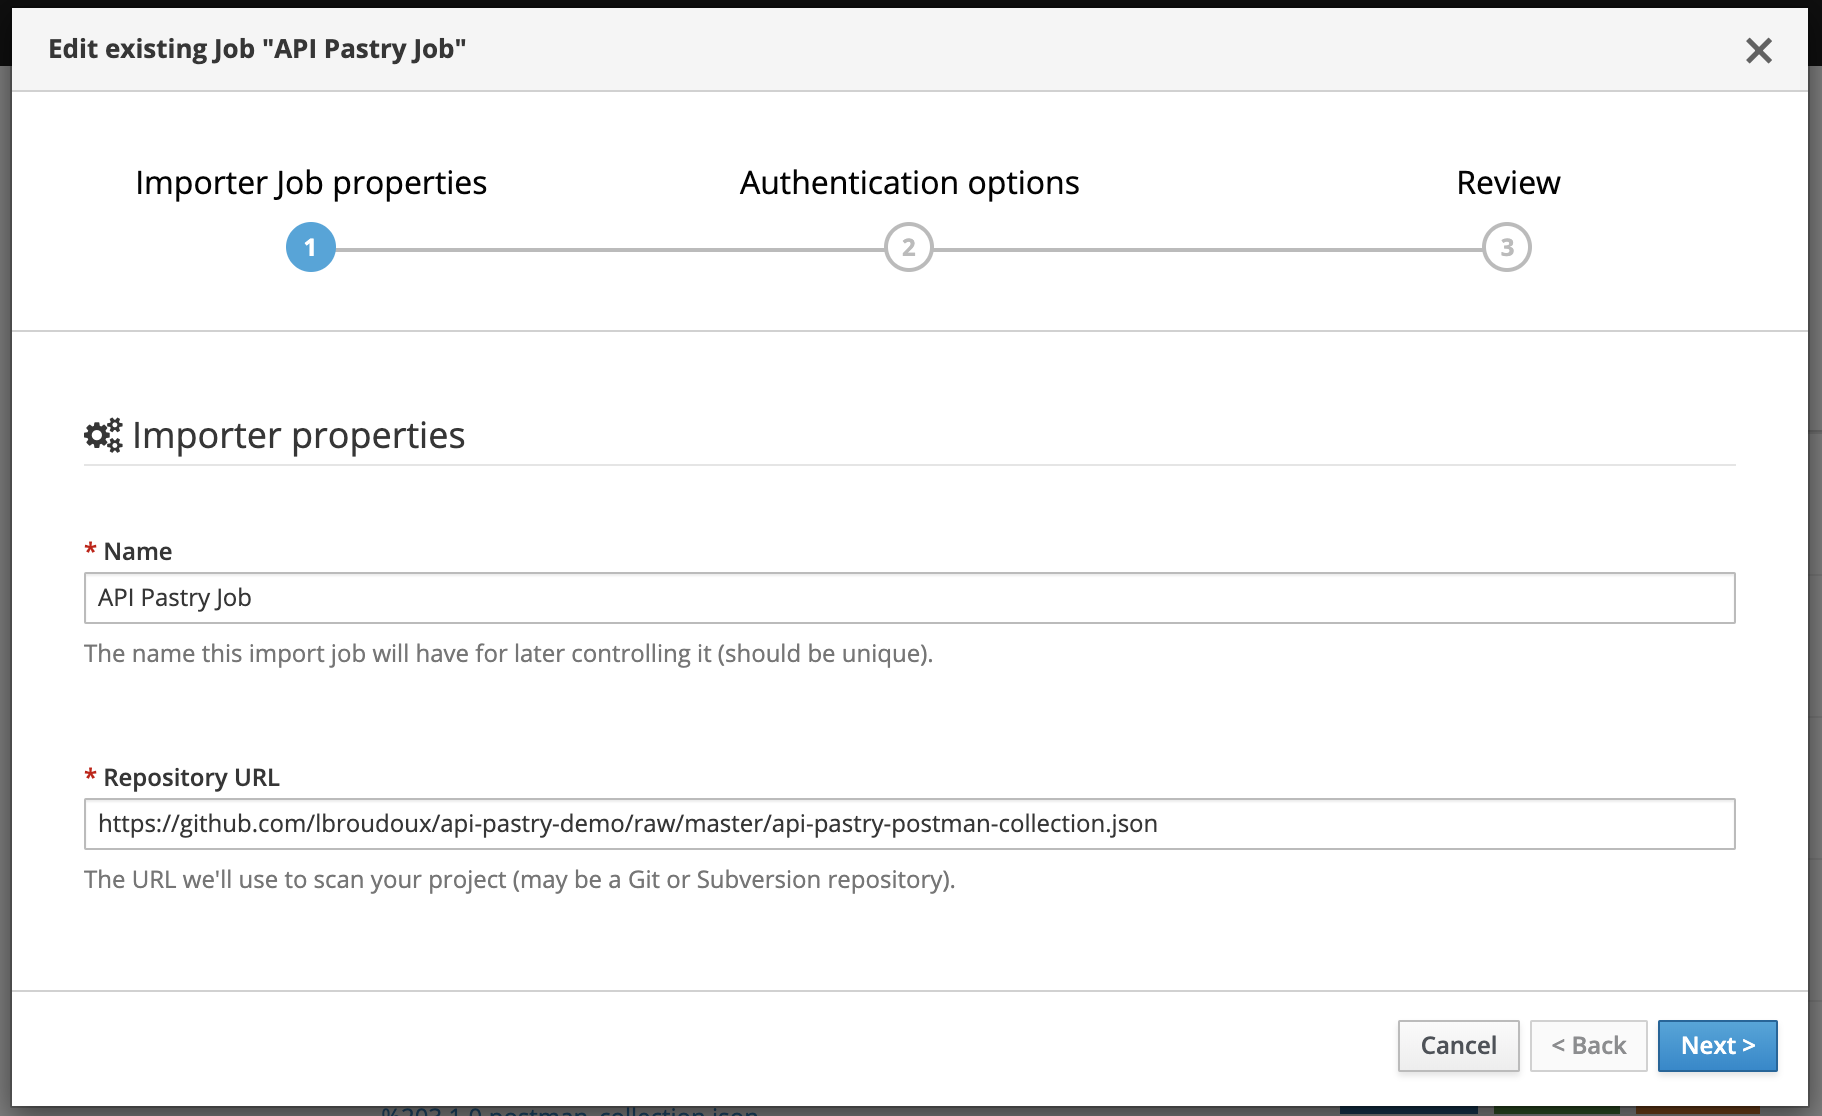
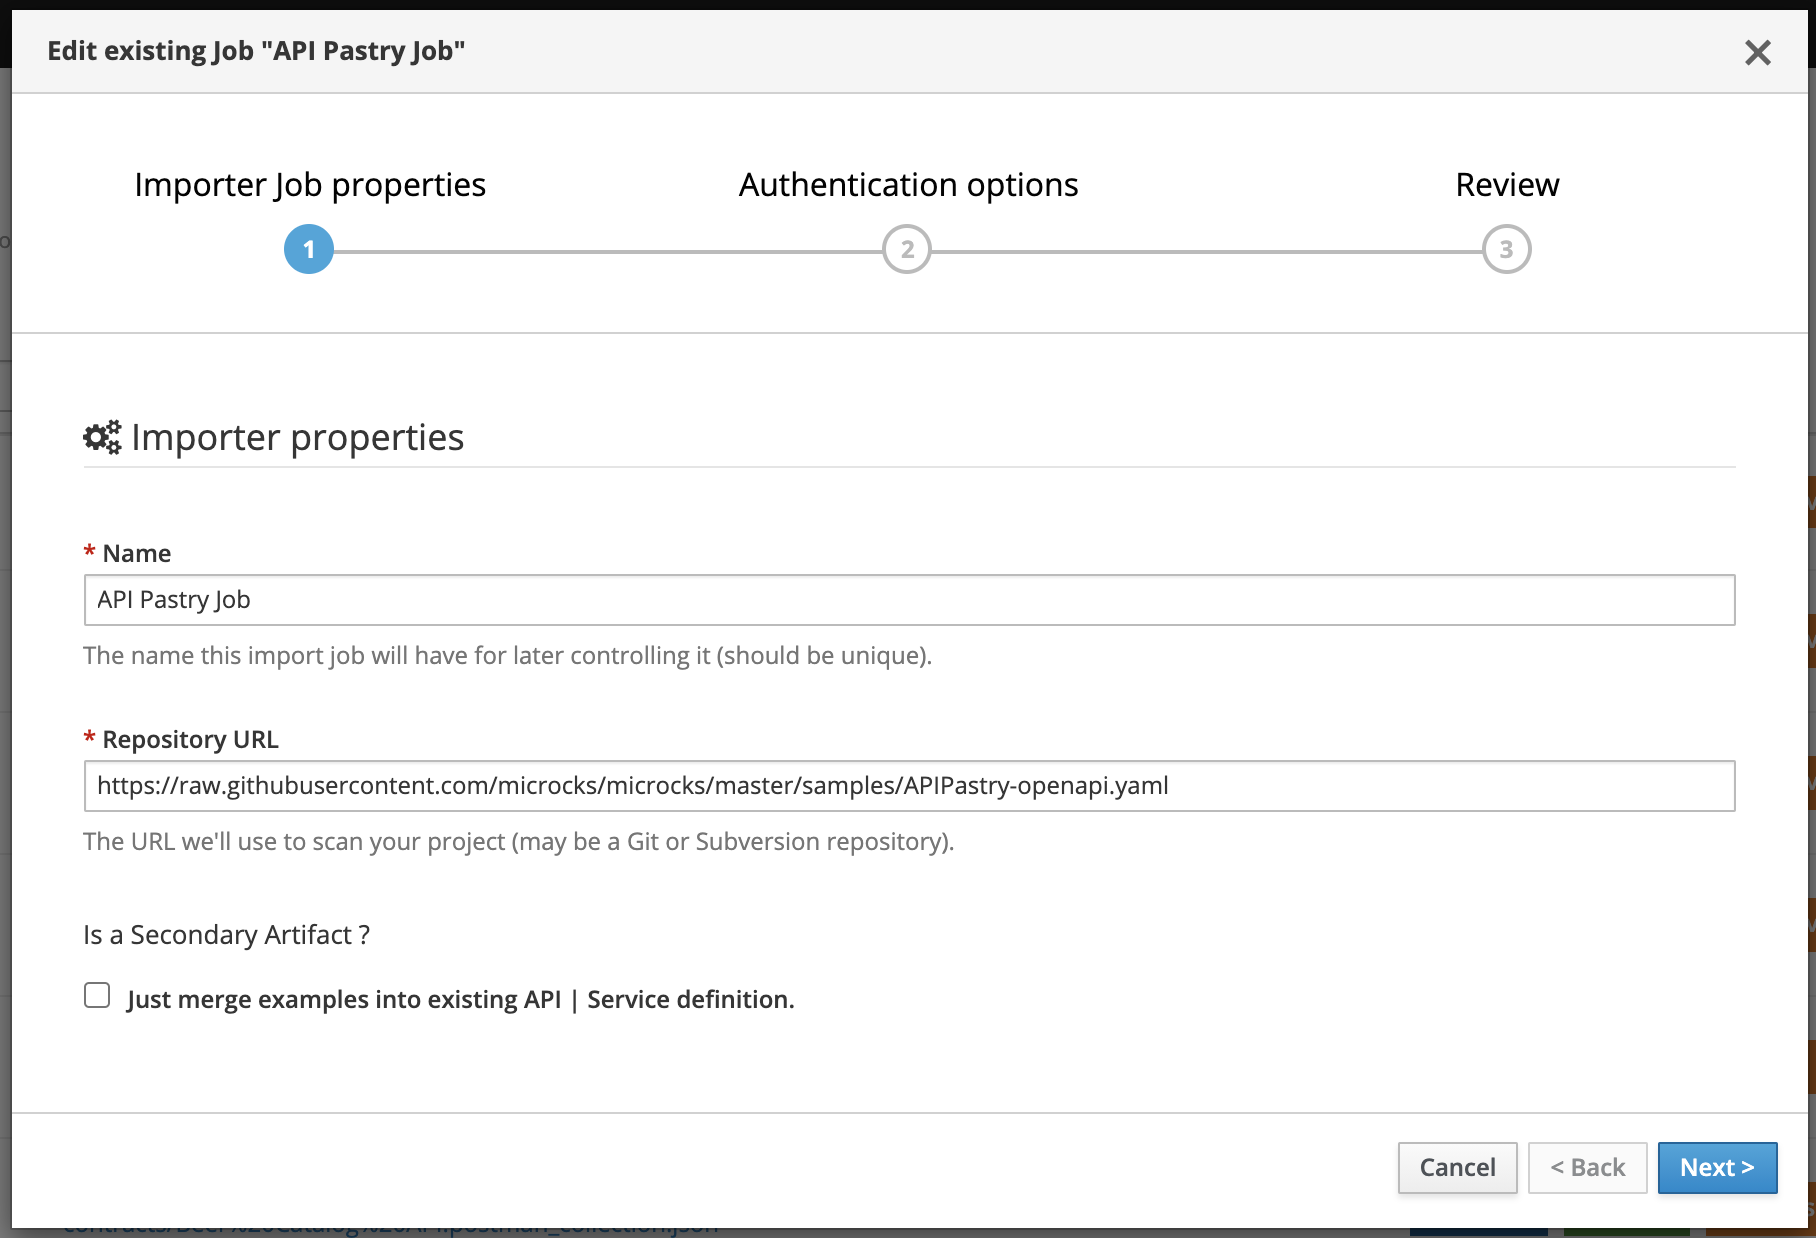
microcks/microcks#400 Documentation for multi-artifacts support

diff --git a/content/documentation/using/importers.md b/content/documentation/using/importers.md
@@ -3,7 +3,7 @@ draft: false
 title: "Importing Services & APIs"
 date: 2020-02-26
 publishdate: 2020-02-26
-lastmod: 2020-08-04
+lastmod: 2021-06-30
 menu:
   docs:
     parent: using
@@ -31,7 +31,8 @@ We provide built-in parsers and importers for the following formats:
 * [Postman collections](https://learning.postman.com/docs/postman/collections/data-formats/) files with v1.0 or v2.x file format. See our [documentation](../postman/) on some conventions you should follow for this collection structure,
 * [Apicurio Studio](https://apicurio-studio.readme.io/docs/integrate-microcks-for-mocking-your-api) direct integration when working on OpenAPI 3.x API specifications,
 * [OpenAPI v3.x](http://spec.openapis.org/oas/v3.0.3) files whether using the YAML of JSON format. See our [documentation](../openapi/) on some conventions you should follow for this specification,
-* [AsyncAPI v2.x](https://www.asyncapi.com/docs/specifications/2.0.0) files whether using the YAML or JSON format. See our [documentation](../asyncapi/) on some conventions you should follow for this specification, 
+* [AsyncAPI v2.x](https://www.asyncapi.com/docs/specifications/2.0.0) files whether using the YAML or JSON format. See our [documentation](../asyncapi/) on some conventions you should follow for this specification,
+* [gRPC / Protocol buffers v3](https://grpc.io/docs/what-is-grpc/introduction/) `.proto`files. See our [documentation](../grpc/) on some conventions you should follow for this specification,
 
 
 > People very often ask *"Why the Swagger format - aka OpenApi 2.0 - isn't supported by Microcks?"*. This is because Swagger is incomplete for specifying mocks as it does not allow full specifications of examples. Sure, the Swagger spec allows you to illustrate responses with samples but it does not allow you to do so with request or request parameters (whether in path, query or headers). And if some tools - like Swagger UI - seems to compose sample requests, they're only doing this using schema information with random generated values...
@@ -42,9 +43,29 @@ If you own a bunch of Swagger specifications, you won't be able to directly impo
 
 > Please notice that the same issue and workaround may apply to some others API specification formats like [WADL](https://www.w3.org/Submission/wadl/) or [RAML](https://raml.org/). They've got really good importers for Postman or SoapUI that offers you a very easy way to complete your syntactic specification with some real life samples that can make the genesis for useful mocks ;-)
 
+## Multi-artifacts support
+
+> From Microcks release 1.3.0, we introduced a new feature called **multi-artifacts support**.
+
+Since origin, Microcks was following the *1 artifact == 1 API mock definition* principle. However we did get feedback from the community and now are convinced that this approach can be too restrictive sometimes. A use-case that is emerging is that some people may have a single OpenAPI file containing only base/simple examples but are managing complementary/advanced examples using for example a Postman Collection.
+
+This base use-case is extended to implement some variations:
+
+* Different Postman Collections for different lifecycle environments, maintained in coordination with reference datasets,
+* Different Postman Collections for different API providers implementing a shared industrial standard (think of IoT Fiware implementation but for different industry vertical),
+* Different Postman Collections for different API consumers that will allow realizing consumer-driven contract testing.
+
+So from `1.3.0`, Microcks is now able to have multiple artifacts (1 `primary` and some `secondary`) mapping to 1 API mock definition. The `primary` one will bring Service and operation metadata as well as examples. The `secondary` ones will only enrich existing operations with new non-conflicting request/responses and event samples.
+
+![artifacts-merging](/images/artifacts-merging.png)
+
+If not explicitly identified as `primary` or `secondary`, the default is to consider an imported artifact as the primary one.
+
 ## Direct upload
 
 The first way of adding new Services or APIs mocks to your Microcks instance is by realizing a direct upload of the artifact. From the left vertical navigation bar, just select the **Importers** menu entry and then choose `Upload`. You'll then see a dialog window allowing you to browse your filesystem and pick a new file to upload.
+
+> From Microcks release 1.3.0, you can also specify if this artifact should be considered as `primary` or `secondary` per the [multi-artifacts support](#multi-artifacts-support).
 
 ![artifacts-upload](/images/artifacts-upload.png)
 
@@ -77,6 +98,8 @@ Using the 3-dotted menu, you can easily enable/disable of force the job.
 You may declare a new Importer job hitting the `Create` button.
 
 A wizard modal then appears as creating an Importer is a 2-steps process. First step is about mandatory basic properties such as the name of your Importer and the repository URL it will use to check for discovering API mocks.
+
+> From Microcks release 1.3.0, you can also specify if this artifact should be considered as `primary` or `secondary` per the [multi-artifacts support](#multi-artifacts-support).
 
 ![importer-step1](/images/importer-step1.png)
 
